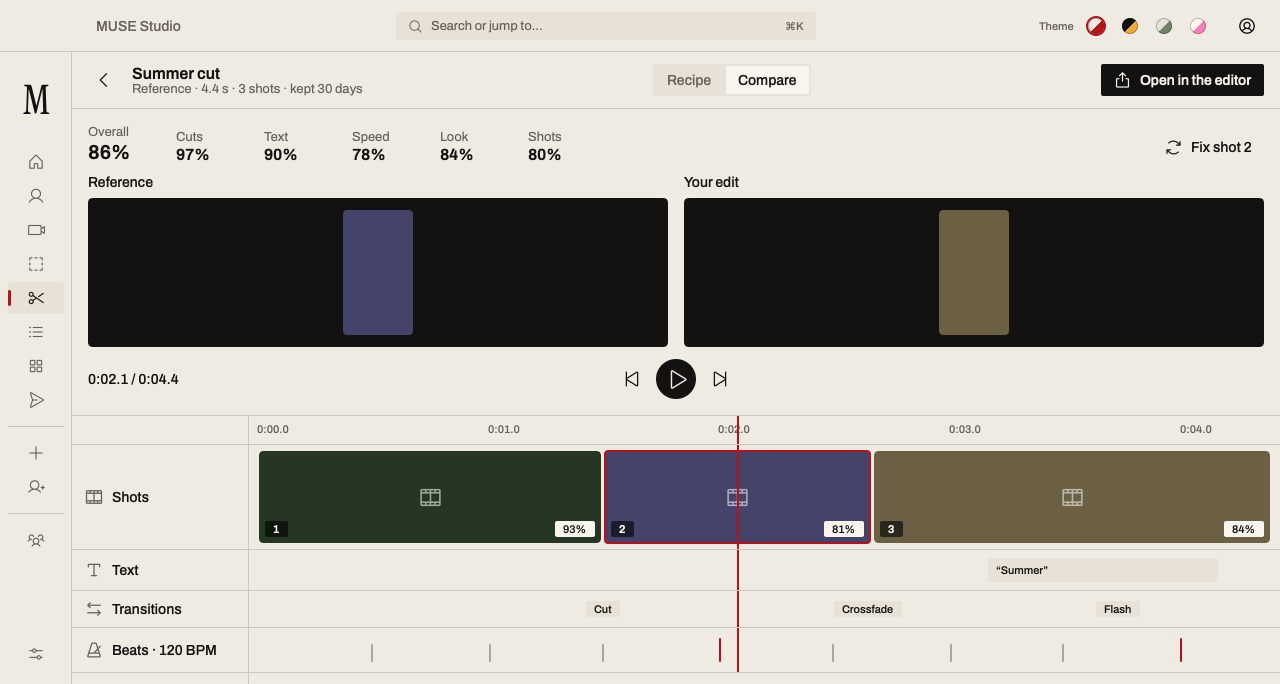
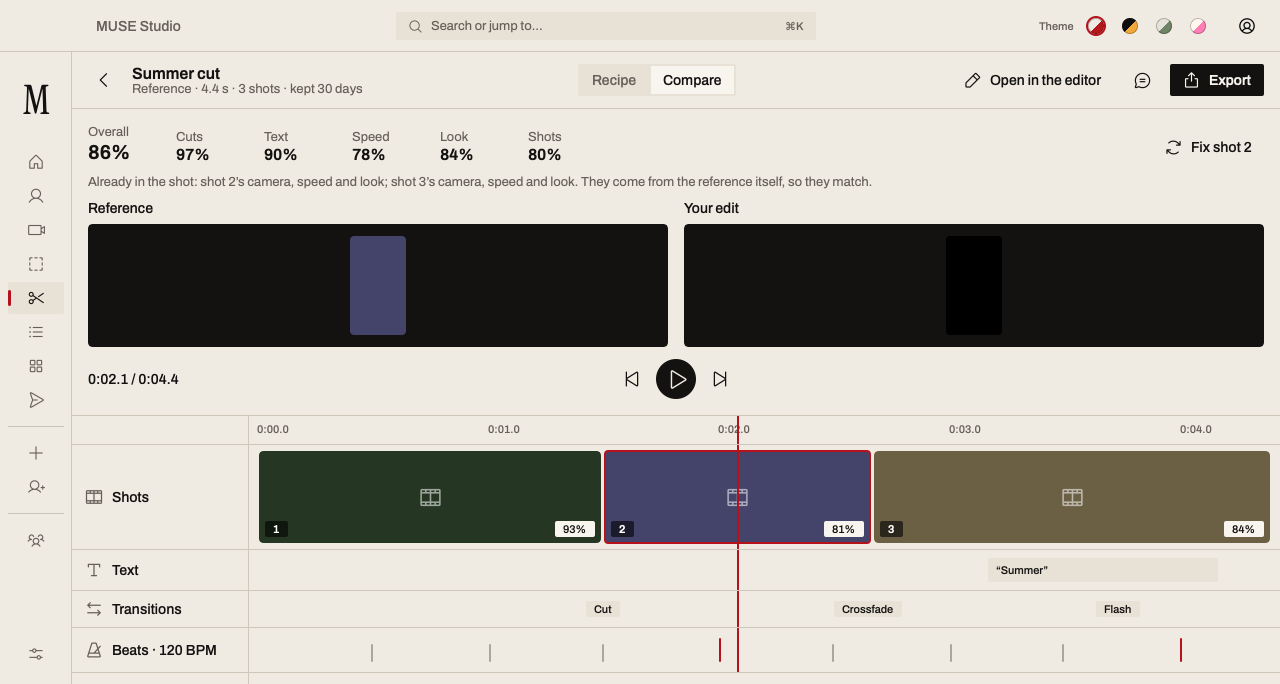
Recreate: lane tags say swap, a shorter baked line, review toasts cleared; built screenshots and README
Claude-Session: https://claude.ai/code/session_01Py2rxpzK498R32918DPNY5

Changed region(s): [[0.0625, 0.2456, 1.0, 0.4912], [0.75, 0.0921, 0.9688, 0.1535], [0.4688, 0.0921, 0.625, 0.1535]]

diff --git a/mac/Muse/Views/Edit/RecreateRecipe.swift b/mac/Muse/Views/Edit/RecreateRecipe.swift
@@ -332,12 +332,11 @@ struct RecreateCompare: View {
     /// "Already in the shot: shot 2's camera, speed and look (swapped into the reference shot)."
     private var bakedLine: String? {
         let rs = store.recreate
-        let parts = rs.slots.compactMap { s -> String? in
-            guard let b = rs.baked[s.id], !b.isEmpty else { return nil }
-            return "\(rs.shotName(s.id).lowercased())’s \(RecreateBaked.words(b))"
-        }
-        guard !parts.isEmpty else { return nil }
-        return "Already in the shot: " + parts.joined(separator: "; ") + ". They come from the reference itself, so they match."
+        let shots = rs.slots.enumerated().filter { !(rs.baked[$0.element.id] ?? []).isEmpty }
+        guard let first = shots.first else { return nil }
+        let names = shots.map { "\($0.offset + 1)" }
+        let which = names.count == 1 ? "shot \(names[0])" : "shots \(names.dropLast().joined(separator: ", ")) and \(names.last!)"
+        return "Already in the shot: \(which) \(names.count == 1 ? "keeps" : "keep") the reference’s own \(RecreateBaked.words(rs.baked[first.element.id] ?? []))."
     }
 
     private func metric(_ name: String, _ v: Double?, big: Bool = false) -> some View {
@@ -463,14 +462,15 @@ struct RecreateLanes: View {
     private func tag(_ s: Recipe.Slot) -> String {
         let rs = store.recreate
         if scores, let sc = rs.score(s.id) { return RecreateText.percent(sc) }
-        if rs.fillErrors[s.id] != nil { return "Didn’t generate" }
-        if rs.generatingSlots.contains(s.id) { return "Generating" }
+        let swap = (rs.slotFill(s.id)?.method ?? rs.estimateInfo[s.id]?.method) == "swap"
+        if rs.fillErrors[s.id] != nil { return swap ? "Swap didn’t work" : "Didn’t generate" }
+        if rs.generatingSlots.contains(s.id) { return swap ? "Swapping in" : "Generating" }
         guard let state = rs.slotFill(s.id)?.state else { return "…" }
         switch state {
         case "matched": return "Yours"
-        case "ready": return "Ready"
-        case "to_generate": return rs.estimateErrors[s.id] != nil ? "Can’t be made" : "To generate"
-        case "generating": return "Generating"
+        case "ready": return swap ? "Swapped in" : "Ready"
+        case "to_generate": return rs.estimateErrors[s.id] != nil ? "Can’t be made" : (swap ? "To swap in" : "To generate")
+        case "generating": return swap ? "Swapping in" : "Generating"
         default: return "To fill"
         }
     }

diff --git a/mac/Muse/App/SnapshotRunner.swift b/mac/Muse/App/SnapshotRunner.swift
@@ -458,6 +458,7 @@ enum SnapshotRunner {
                 let ok = first?.isLink == true && first?.isReady == true && again?.id == first?.id && again?.cached == true
                 lines.append("\(ok ? "FITS" : "CUT") recreate_link 1280x800 c the demo link reads at once (\(first?.id ?? "none")), again cached \(again?.cached == true)")
                 store.leaveRecreateReference()
+                store.toast = nil   // the "read this video before" toast would sit over the next shots
                 try? await Task.sleep(for: .seconds(0.5))
             }
             let refs = (try? await store.recreateAPI.listReferences()) ?? []
@@ -577,6 +578,7 @@ enum SnapshotRunner {
                         lines.append("\(code == nil && store.recreate.demoSwaps[slot] == demoTakeId && store.recreate.built?.phase == .ready ? "FITS" : "CUT") recreate_fix_replace 1280x800 c \(slot) now plays \(demoTakeId) (\(code ?? "ok"))")
                     }
                     store.closeRecreateFix()
+                    store.toast = nil
                     try? await Task.sleep(for: .seconds(0.8))
                 } else {
                     lines.append("CUT recreate_fix 1280x800 c no weakest shot after Build")

diff --git a/plans/recreate/README.md b/plans/recreate/README.md
@@ -20,3 +20,21 @@ Themes: `c` Soft Tactile, `a` Editorial, `b` Camera Body, `d` Creator Pop; 1280 
     tile.
   - **Fix shot 2** re-picks or regenerates the weakest shot. Export stays the one primary.
 - Anything the editor can't do yet shows in the panel as "Not supported yet", with the moment it happens.
+
+## Release 1 on the Mac (built, demo mode, Mac CI run 42492773570)
+- **Paste a link** (`built_link_c`): the start page takes a TikTok, Instagram Reel or YouTube link (field, ⌘V, or dropped),
+  as well as a dropped or chosen file anywhere on the page. Each refusal shows the server's words, with "Choose the file" beside it.
+  A link whose download is blocked later shows the same and a drop zone.
+- **Cast** (`built_cast_c`): the lead at the top of the Recipe panel; the new shots are priced and made with her, and
+  Build's confirmation names her (`built_confirm_*`).
+- **How each shot is made**: "Swap into the reference shot" (default; keeps its camera, speed and look) or "Generate a
+  new shot", with "Keep the reference's setting". A failed swap is offered as generate, priced on its own.
+- **Write the shot briefs** (`built_briefs_c`, `built_briefs_confirm_c`): under "Not described yet", priced and confirmed first.
+- **Claude** (`built_claude_c`): the editor's chat beside Recreate, on a "recreate" thread (falls back to the edit
+  session's), with Explain shot N / Fix the weakest shot / Analyse a new video. A paid step Claude asks for waits for Allow.
+- **Compare** (`built_compare_*`, `built_compare_playing_c`, `built_compare_frame_c`): "Your edit" plays the built edit:
+  the server's preview when it has one ("Preview of the cut" if it leaves something out), else rendered on the Mac with
+  the editor's engine. Swapped shots are noted as "Already in the shot".
+- **Fix shot N** (`built_fix_c`): another take, or the shot made again (priced, confirmed), swapped into the edit as one undo step.
+- **Export** (`built_export_c`): the primary after Build; the reference's sound as a guide track or silent, with the
+  "Post with the original sound" steps. The server export when there is one, else made on the Mac.
